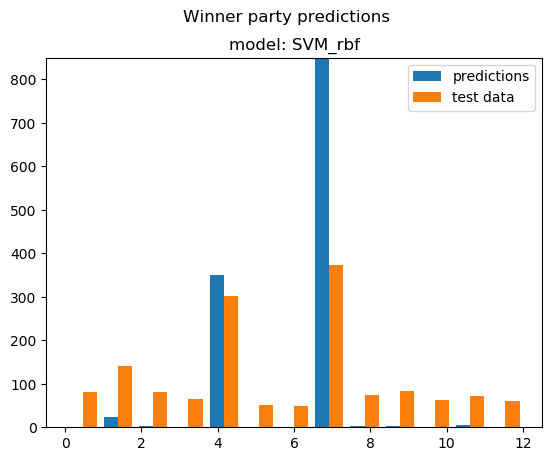
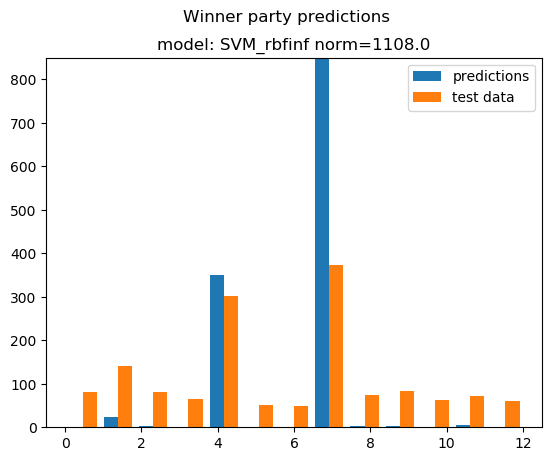
Transportation ranking perfromed not finished

Changed region(s): [[0.2757, 0.0607, 0.7658, 0.1215]]

diff --git a/report.tex b/report.tex
@@ -218,8 +218,12 @@ We decided to leave other parameters at their default values as the problem of s
 \newpage
 \section{Performance measurements}
 \subsection{Majority votes measurement}
-For the task of prediction which party will win the majority of votes we propose to use the most simple measurement that comes to mind - "binary score": if the majority of predicted tags are from the same class as in validation set, the model score is 1, i.e. it has predicted correctly the winning party. Otherwise, the score will be 0, as the classifier predicted the wrong party. Those are the the only two possible values for this score, thus all models which got score 1 will be selected as best predictors for this task by the automated process in Selector class, while other models will be dropped.
-
+For the task of prediction which party will win the majority of votes we propose to use the most simple measurement that comes to mind - "binary score": if the majority of predicted tags are from the same class as in validation set, the model score is 1, i.e. it has predicted correctly the winning party. Otherwise, the score will be 0, as the classifier predicted the wrong party. Those are the the only two possible values for this score, thus all models which got score 1 will be selected as best predictors for this task, while other models will be dropped. Unfortunately this method can give us multiple models which can predict the winner party, i.e. it doesn't choose the best model for this task, which means the binary measurement we chose is not good enough as it can provide us a relative "goodness" of the models which predicted correctly the winner party. To make the method more selective we decided to use $infinity$ $norm$ of the prediction histogram as secondary measurement. 
+\begin{gather*}
+Inf norm = max | histPredicted |   
+\end{gather*}
+The infinity norm value is simply the height of highest bin in the predictions histogram. Among those models who predicted correctly we want to choose the model which does it with highest certainty, basically we want to choose a model which gives majority tag for all samples, because we know that it our datasets, the percentage of the classes is the same.
+     
 \subsection{Votes division measurement}
 For the task of prediction of votes division, we could use the "accuracy" or "error" measurement for the model performance, but we decided that those metrics are too strict for this task. In votes division task all we want is to predict correctly the division of the total votes (in test set) between the parties, but not a vote of each person. In other words, we want to compare a histogram of predicted votes to the histogram of true votes in the test set, thus the metrics we use is an Euclidean distance between two histograms:
 \begin{gather*}
@@ -229,14 +233,28 @@ According to this measurement, predicted votes distribution histogram which is v
 
 \subsection{Most probable voters measurement}
 For the task of prediction of votes for each voter, we could use Average Accuracy. Based on 
-\href{https://medium.com/usf-msds/choosing-the-right-metric-for-evaluating-machine-learning-models-part-2-86d5649a5428}{Choosing the Right Metric for Evaluating Machine Learning Models}, average accuracy is one of the most commonly used metrics for multi-class classification tasks. On the other hand, in this task we should predict a probability of each voter to vote for each party, but not the exact label. That's why we decided to use other metrics for this task. NOT FINISHED 
- 
+\href{https://medium.com/usf-msds/choosing-the-right-metric-for-evaluating-machine-learning-models-part-2-86d5649a5428}{Choosing the Right Metric for Evaluating Machine Learning Models}, average accuracy is one of the most commonly used metrics for multi-class classification tasks. On the other hand, in this task we should predict a probability of each voter to vote for each party, but not the exact label. That's why we decided to use other metrics for this task.
+\begin{figure}[h]
+\centering
+\includegraphics[width=0.5\textwidth]{report_pics/sets}
+\caption{Intersection of predicted voters and actual voters of a party}
+\end{figure}
+Looking at the figure and denoting $P$-as predicted set, $T$-as true set, we can state the following:
+\begin{enumerate}
+	\item $P \cap T$ - i.e. the set intersection is the actual voters which will be provided with transportation. Generally speaking, big intersection is good, thus it will increase the score.
+	\item $P-T$ - are mispredicted voters, which will not vote for the given party, but will get a free ride. Of course that, big $P-T$ is bad, thus it will decrease the score.
+	\item $T-P$ - are actual voters which will not get a transportation and matbe will not vote at all as a result. big $T-P$ is bad, thus it will decrease the score.
+\end{enumerate} 
+Finally we ended up with following score calculation:
+\begin{gather*}
+FINISH   
+\end{gather*}
 
 \newpage
 \section{Prediction results and chosen model}
 In this section we will discuss the results of each prediction task, the quality of the results according to the measurements and which model was selected for each prediction task.
 \subsection{Majority votes}
-To visualize the prediction results on validation set we will use histogram of true labels of validation set and predicted labels. According to those graphs we want be able to choose the best model for this task.
+To visualize the prediction results on validation set we will use histogram of true labels of validation set and predicted labels.
 
 \begin{figure}[htp]
 \centering
@@ -246,29 +264,33 @@ To visualize the prediction results on validation set we will use histogram of t
 \caption{Votes distribution}
 \end{figure}
 
-Looking at the plots we can say that all five models predicted the winner party correctly. On the other hand, during the experiments we noticed that MLP votes distribution changes each time we train the network from scratch. To make MLP results consistent we forced to add the same random state each time we initialize the network weights, which is, of course, not a real solution to this issue. At this point we definitely can drop MLP from this task. Other four predictors successfully predicted the winner party, while SVM did it with the highest level of certainty, i.e. the majority of the samples where classified according to the real tag majority in the train set. As the class proportions in training, validation and test sets are the same, SVM probably will give the same prediction on the test set.
+Looking at the plots we can say that all 3 models predicted the winner party correctly, while SVM and KNN did it with the highest level of certainty, i.e. the majority of the samples where classified according to the real tag majority in the train set. Infinity norm of the prediction histogram of SVM is slightly higher, thus this model is the best model for winner prediction task.
   
 \subsection{Votes division}
 To visualize the prediction results on validation set we will use histogram of true labels of validation set and predicted labels. According to the metrics we choose for Votes division task, we are interested in model which achieved the smallest Euclidean Distance between the histograms. 
 
-
 \begin{figure}[htp]
 \centering
 \includegraphics[width=.3\textwidth]{Division_prediction_plots/SVM_rbf_fig}\quad
-\includegraphics[width=.3\textwidth]{Division_prediction_plots/KNN_uniform_fig}\quad
-\includegraphics[width=.3\textwidth]{Division_prediction_plots/KNN_distance_fig}
-
-\medskip
-
-\includegraphics[width=.3\textwidth]{Division_prediction_plots/Random_Forest_fig}\quad
-\includegraphics[width=.3\textwidth]{Division_prediction_plots/MLP[24]_fig}
+\includegraphics[width=.3\textwidth]{Division_prediction_plots/KNN_distance_fig}\quad
+\includegraphics[width=.3\textwidth]{Division_prediction_plots/Random_Forest_fig}
 
 \caption{Votes distribution}
 \end{figure}
 
-Looking at the plot we can clearly see that model performance corresponds to the chosen metrics, i.e. the euclidean norm. As stated in previous sections, the most similar histograms have the smallest euclidean distance. In conclusion, KNN classifier with weighted distances achieved best performance on validation set with final score of 120, which is the best score among other classifiers. 
+Looking at the plot we can clearly see that model performance corresponds to the chosen metrics, i.e. the euclidean norm. As stated in previous sections, the most similar histograms have the smallest euclidean distance. In conclusion, Random Forest classifier achieved best performance on validation set with final score of 104, which is the best score among other classifiers. 
 
 \subsection{Vote per voter}
+NOT FINISHED - 
+
+\begin{verbatim}
+model  SVM_rbf reached  29.133 % accuracy.
+model  KNN_distance reached  25.667 % accuracy.
+model  Random_Forest reached  74.0 % accuracy.
+best model for vote classification is  Random_Forest
+\end{verbatim}
+
+
 
 \newpage
 \section{Final answers}

diff --git a/model_selector.py b/model_selector.py
@@ -1,6 +1,7 @@
 import matplotlib.pyplot as plt
 import os
 import numpy as np
+import copy
 from sklearn.metrics import accuracy_score
 from sklearn.metrics import precision_score
 from sklearn.metrics import recall_score
@@ -9,11 +10,37 @@ from sklearn.metrics import confusion_matrix
 PATH_WINNER_PARTY_PLOTS = 'Winner_party_plots'
 PATH_VOTE_PREDICTION_PLOTS = 'Vote_prediction_plots'
 PATH_DIVISION_PREDICTION_PLOTS = 'Division_prediction_plots'
+THRESHOLD_PROBA = 0.2 #20%
+EMPTY_DICT = {
+    "12": set(),
+    "11": set(),
+    "10": set(),
+    "9": set(),
+    "8": set(),
+    "7": set(),
+    "6": set(),
+    "5": set(),
+    "4": set(),
+    "3": set(),
+    "2": set(),
+    "1": set(),
+    "0": set(),
+}
 
 class modelSelector():
-    def __init__(self, x_train, y_train, x_val, y_val, x_test, y_test, models, model_names):
+    def __init__(self, id_train, x_train, y_train,
+                 id_val, x_val, y_val,
+                 id_test, x_test, y_test,
+                 models, model_names):
+        self.id_train = id_train
         self.x_train = x_train
         self.y_train = y_train
+
+        self.id_val = id_val
+        self.x_val = x_val
+        self.y_val = y_val
+
+        self.id_test = id_test
         self.x_test = x_test
         self.y_test = y_test
         self.model_list = models
@@ -21,7 +48,7 @@ class modelSelector():
         #self.class_dict = class_dict
         self.num_of_classes = 13
         self.winner_acc = []
-        self.best_models_for_winner_prediction = []  # (model, model_name) automatically selected models
+        self.best_models_for_winner_prediction = None  # (model, model_name) automatically selected models
         self.vote_acc = []
         self.best_model_for_vote_prediction = None  # (model, model_name) automatically selected models
         self.division_dist = []
@@ -49,16 +76,23 @@ class modelSelector():
             if not os.path.exists(PATH_WINNER_PARTY_PLOTS):
                 os.mkdir(PATH_WINNER_PARTY_PLOTS)
 
+
         self.winner_acc = []
+        highest_norm = 0
         for model, model_name in zip(self.model_list, self.model_names_list):
-            predictions = model.predict(self.x_test)
+            predictions = model.predict(self.x_val)
+
+            pred_hist = [0] * self.num_of_classes
+            for pred in predictions:
+                pred_hist[pred] += 1
+            curr_norm = np.linalg.norm(pred_hist, ord=np.inf)
 
             if graphic:
-                plt.hist([predictions, self.y_test.tolist()], bins=13, label=['predictions', 'test data'])
+                plt.hist([predictions, self.y_val.tolist()], bins=13, label=['predictions', 'test data'])
                 supttl = 'Winner party predictions'
                 plt.suptitle(supttl)
                 plt.ylim((0, 850))
-                ttl = 'model: ' + model_name
+                ttl = 'model: ' + model_name + "inf norm=" + str(curr_norm)
                 plt.title(ttl)
                 plt.legend()
                 fig = plt.gcf()
@@ -69,13 +103,14 @@ class modelSelector():
             pred_winner = max(set(predictions), key=predictions.tolist().count)
             real_winner = max(set(self.y_test), key=self.y_test.tolist().count)
 
-            if pred_winner != real_winner:
-                self.winner_acc.append(0)
-            else:
-                self.best_models_for_winner_prediction.append((model, model_name))
-                self.winner_acc.append(100)
-
-        return self.winner_acc
+            if pred_winner == real_winner:
+                if curr_norm > highest_norm:
+                    highest_norm = curr_norm
+                    self.best_models_for_winner_prediction=(model, model_name)
+        if self.best_models_for_winner_prediction is not None:
+            print("best model for winner prediction is ", self.best_models_for_winner_prediction[1])
+        else:
+            print("All models are terrible for winner prediction task")
 
     def score_division_prediction(self, graphic=True):
         '''
@@ -94,7 +129,7 @@ class modelSelector():
         for model, model_name in zip(self.model_list, self.model_names_list):
             pred_hist = [0]*self.num_of_classes
             true_hist = [0]*self.num_of_classes
-            predictions = model.predict(self.x_test)
+            predictions = model.predict(self.x_val)
 
             for pred in predictions:
                 pred_hist[pred] += 1
@@ -105,7 +140,7 @@ class modelSelector():
             self.division_dist.append(dist)
 
             if graphic:
-                plt.hist([predictions, self.y_test.tolist()], bins=13, label=['predictions', 'test data'])
+                plt.hist([predictions, self.y_val.tolist()], bins=13, label=['predictions', 'test data'])
                 supttl = 'Votes division predictions - hist dist = ' + str(np.round(dist))
                 plt.suptitle(supttl)
                 plt.ylim((0, 850))
@@ -121,6 +156,7 @@ class modelSelector():
                 shortest_dist = dist
                 self.best_model_for_division_prediction = (model, model_name)
 
+        print("best model for vote division is ", self.best_model_for_division_prediction[1])
         return self.division_dist
 
     def score_vote_prediction(self, graphic = True):
@@ -139,15 +175,38 @@ class modelSelector():
                 os.mkdir(PATH_VOTE_PREDICTION_PLOTS)
 
         self.vote_acc = []
-        best_acc = 0
+        true_dict = copy.deepcopy(EMPTY_DICT)
+        fill_true_dict(true_dict, self.id_val, self.y_val)
         for model, model_name in zip(self.model_list, self.model_names_list):
-            predictions = model.predict(self.x_test)
-            acc = accuracy_score(self.y_test, predictions)
-            self.vote_acc.append(acc)
-            print("model ", model_name, "reached ", str(np.round(acc*100,3)) , "% accuracy.")
-            if acc > best_acc:
-                best_acc = acc
-                self.best_model_for_vote_prediction = (model, model_name)
-        print("best model for vote classification is ", self.best_model_for_vote_prediction[1])
-        return self.vote_acc
+            predictions_proba = model.predict_proba(self.x_val)
+            pred_dict = copy.deepcopy(EMPTY_DICT)
+            fill_pred_dict(pred_dict, self.id_val, predictions_proba)
 
+
+            print("testing - ", model_name)
+            score = 0
+            for key in true_dict:
+                true_set = true_dict[key]
+                pred_set = pred_dict[key]
+                intersec = len(true_set.intersection(pred_set))
+                forgotten_voters = len(true_set.difference(pred_set))
+                false_riders = len(pred_set.difference(true_set))
+                print("for party:" + key + ", the intersection size is ", intersec, ", forgotten voters:", forgotten_voters, " anf falce riders=", false_riders)
+                score += intersec
+                score -= false_riders
+                score -= forgotten_voters
+            print("score = ", score)
+
+        #print("best model for vote classification is ", self.best_model_for_vote_prediction[1])
+        #return self.vote_acc
+
+def fill_true_dict(true_dict, ids, labels):
+    for label, id in zip(labels, ids):
+        true_dict[str(label)].add(id)
+    return true_dict
+
+def fill_pred_dict(pred_dict, ids, probas):
+    for proba, id in zip(probas, ids):
+        for p,tag in zip(proba, enumerate(proba)):
+            if p >= THRESHOLD_PROBA:
+                pred_dict[str(tag[0])].add(id)

diff --git a/main.py b/main.py
@@ -11,21 +11,24 @@ def main():
     dp = dataProvider()
     dp.test_for_nans()
     # dict = dp.get_vote_dict()
-    x_train, y_train = dp.get_train_xy()
-    x_val, y_val = dp.get_val_xy()
-    x_test, y_test = dp.get_test_xy()
-    models = [svm.SVC(kernel='rbf', C=0.8, gamma='auto'),
+    id_train, x_train, y_train = dp.get_train_xy()
+    id_val, x_val, y_val = dp.get_val_xy()
+    id_test, x_test, y_test = dp.get_test_xy()
+    models = [#svm.SVC(kernel='rbf', C=0.8, gamma='auto', probability=True),
               KNeighborsClassifier(n_neighbors=85, weights='distance'),
               RandomForestClassifier(n_estimators=50, max_depth=15, min_samples_split=0.01)]
-    model_names = ['SVM_rbf',
+    model_names = [#'SVM_rbf',
                    'KNN_distance',
                    'Random_Forest']
     #
-    sl = modelSelector(x_train, y_train, x_val, y_val, x_test, y_test, models, model_names)
+    sl = modelSelector(id_train, x_train, y_train,
+                       id_val, x_val, y_val,
+                       id_test, x_test, y_test,
+                       models, model_names)
     sl.fit()
-    sl.score_who_win()
+    #sl.score_who_win()
     sl.score_vote_prediction()
-    sl.score_division_prediction()
+    #sl.score_division_prediction()
 
 if __name__ == "__main__":
     main()

diff --git a/data_provider.py b/data_provider.py
@@ -70,10 +70,10 @@ class dataProvider():
         return self.train_set, self.val_set, self.test_set
 
     def get_train_xy(self):
-        return self.x_train, self.y_train
+        return self.train_set.index.values, self.x_train, self.y_train
 
     def get_val_xy(self):
-        return self.x_val, self.y_val
+        return self.val_set.index.values, self.x_val, self.y_val
 
     def get_test_xy(self):
-        return self.x_test, self.y_test
+        return self.test_set.index.values, self.x_test, self.y_test
